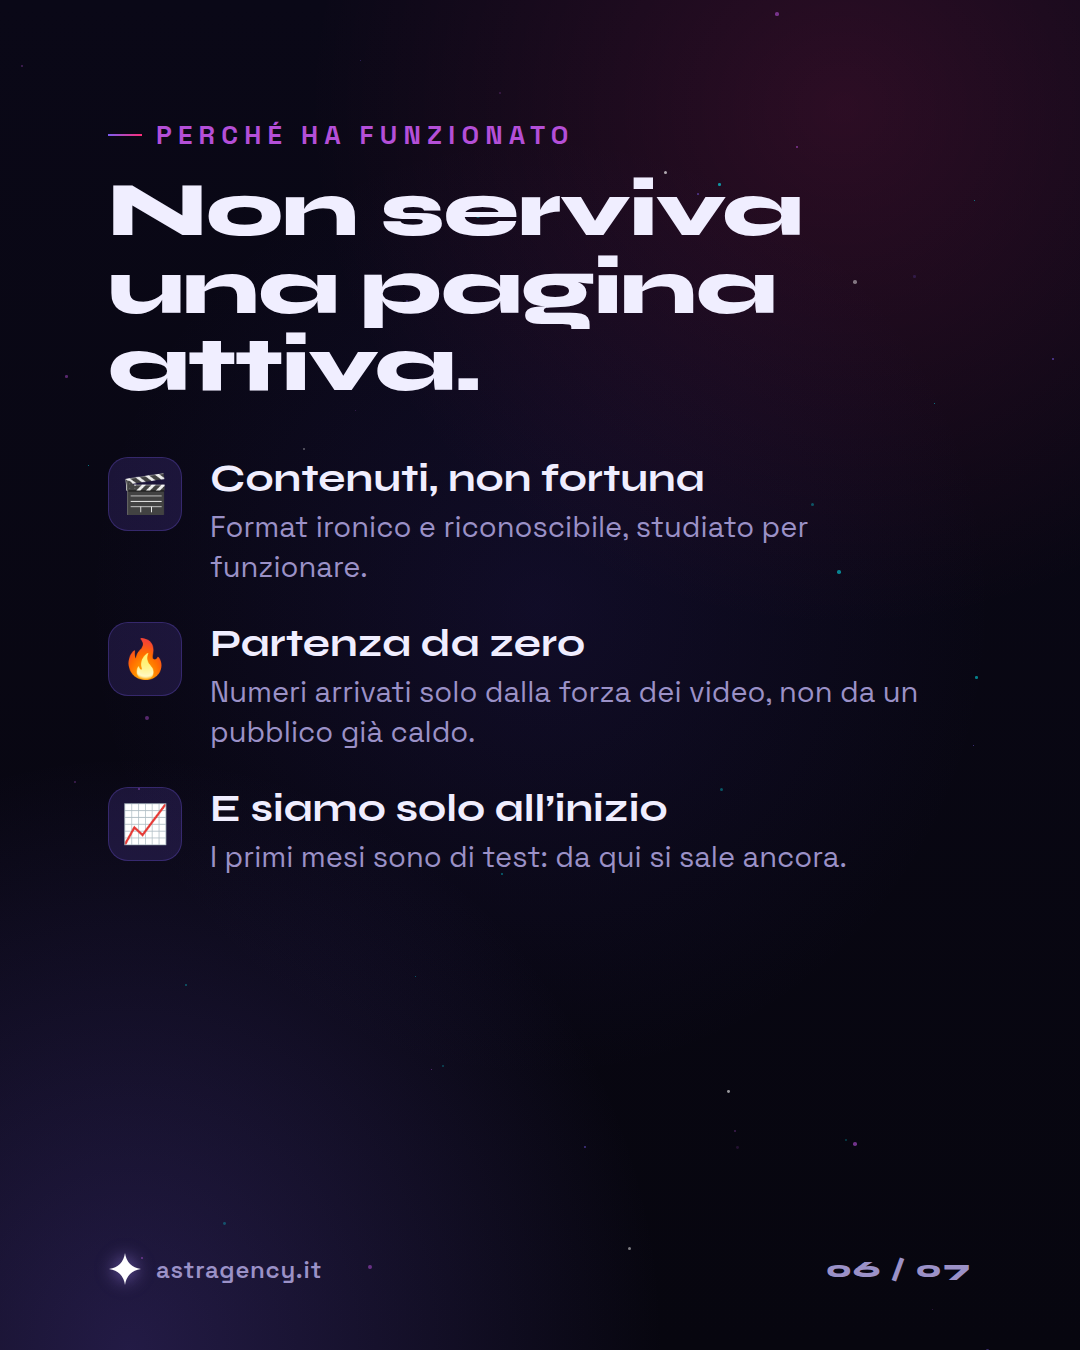
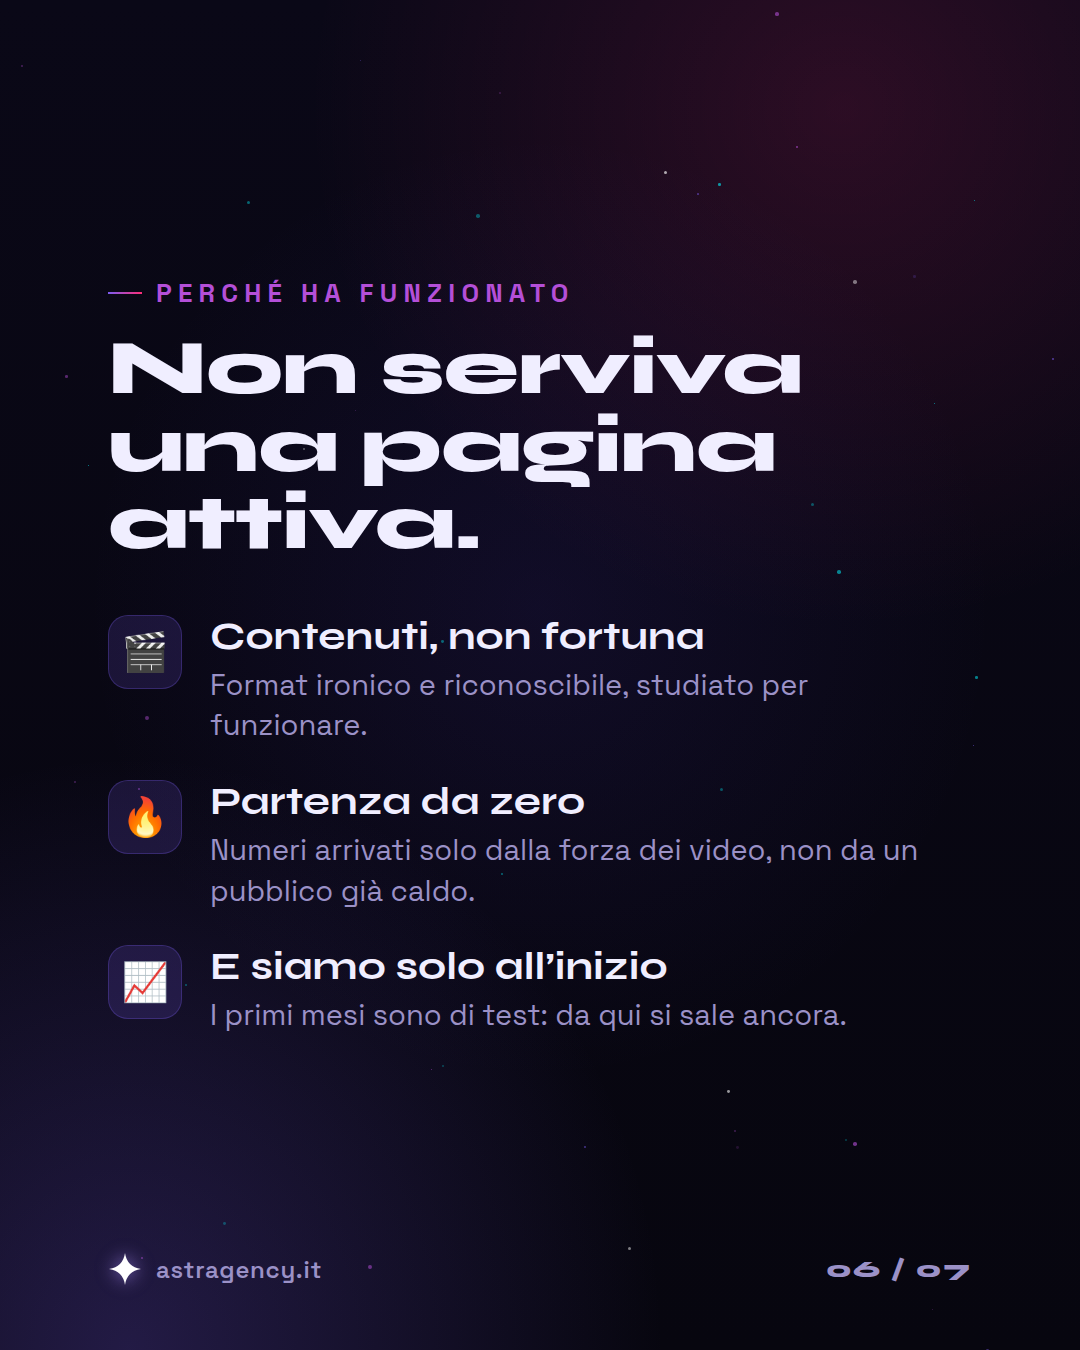
Carosello Shock: centratura verticale reale di tutte le slide (margin auto)

Changed region(s): [[0.0917, 0.0933, 0.7639, 0.4356], [0.0917, 0.4356, 0.8556, 0.7778]]

diff --git a/report-shock/index.html b/report-shock/index.html
@@ -97,7 +97,7 @@ E se la tua pagina fosse attiva? Scrivici in DM o su astragency.it ✦
 
 <script>
   const NUM = 7;
-  const V = '?v=13';   // cache-busting: bump ad ogni aggiornamento delle slide
+  const V = '?v=14';   // cache-busting: bump ad ogni aggiornamento delle slide
   const titoli = ['Cover','Punto di partenza','Il reel','Classifica video','Totale','Perché','CTA'];
   const grid = document.getElementById('grid');
   for (let i = 1; i <= NUM; i++) {
